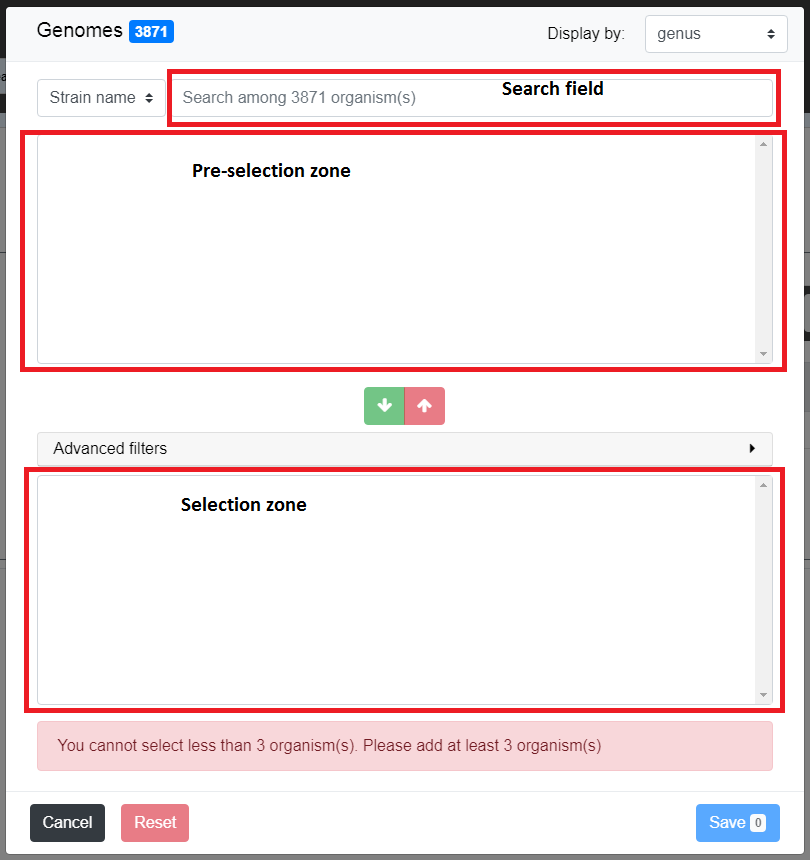
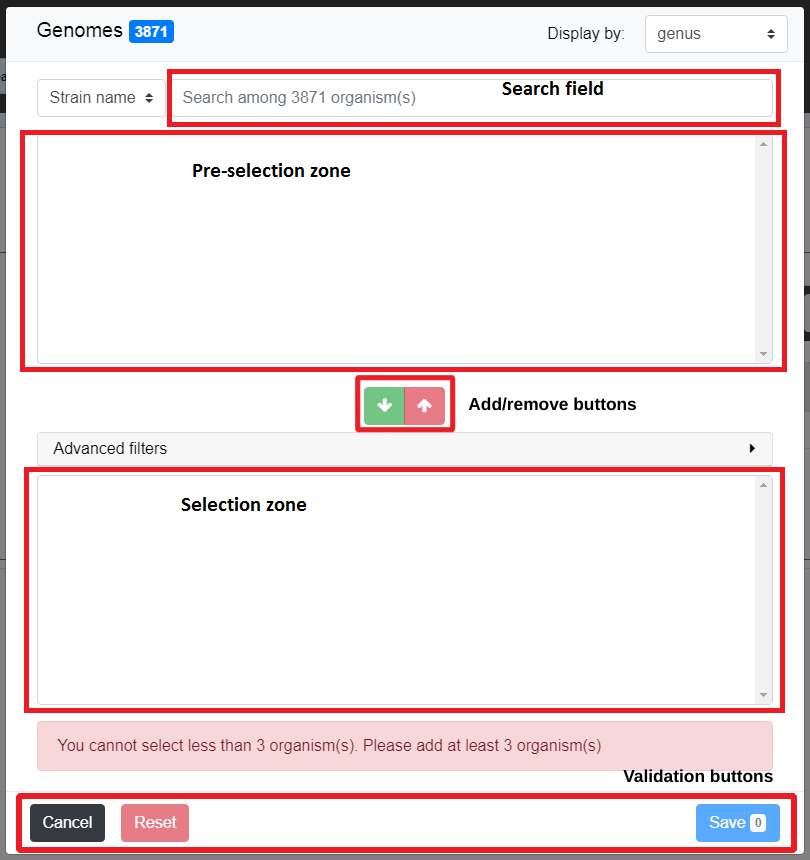
Many edits (including moving descriptions of buttons up).

Changed region(s): [[0.0, 0.8767, 0.9877, 0.9977], [0.4321, 0.4233, 0.8025, 0.514]]

diff --git a/docs/content/overview/organismselection.rst b/docs/content/overview/organismselection.rst
@@ -85,44 +85,72 @@ The selector opens as shown below:
 
 .. image:: img/selector_partname.png
 
-You can now select your organism(s) by writing the organism name in the **search field**.
-Select them by clicking on their name in the **pre-selection zone** (first selection zone) and
-use the green arrow to transfer them in the **selection zone** (second selection zone).
-You may add more genome to the **selection zone** using the same mechanism, or remove some of them using the red button.
-When satisfied by the organism list in the **selection zone**, you can use them for your analysis by clicking on "Save".
+The window is divided in 5 parts:
+
+  - the **Search Field** is used to create filters on the list of objects from the data source
+  - the **Pre-selection Zone** is used to select objects among the objects that match the filters
+  - the **Selection Zone** shows the list of currently selected objects
+  - the **Add/Remove buttons** allows to transfer objects between the Pre-selection Zone and the Selection Zone
+
+The general usage of the selectors is as follows.
+You can use the **Search Field** to filters the list of all objects from the
+data source (see :ref:`search-field` for detailled explanation on this).
+The **Pre-selection Zone** will display the objects that match the filters.
+You can then select objects from this list and add them to the **Selection Zone** with the green arrow.
+
+If you want to remove objects from the **Selection Zone**, select them and use the red arrow.
+See :ref:`selection-zone` to learn more about the **Selection Zone** (including the use of filters in it).
+
+You can use the **Pre-selection Zone** several times with different filters.
+This allows to create arbitrarily complicated selections.
+
+When satisfied with the list in the **Selection Zone**, click on **Save**.
+The selection window will close and you will return to the page you are interested in
+for further analysis.
+
+The **Reset** button will revert both zones (**Selection Zone** and **Pre-selection Zone**)
+to their initial value (*i.e.* when the page was opened).
+The selection window stays open so you can restart the selection.
+
+The **Cancel** button button cancels all the changes done in the current selector
+(*i.e* the list of selected organisms is not changed) and closes the selection window.
 
 Step by Step use
-=================
+================
 
-Once the selector is open, you have to find the organism(s) you are interested in by using the **search field**
+Once the selector is open, you have to find the object(s) you are interested in by using the **Search Field**
 
-Pre-selection
--------------
+.. _preselection-zone:
 
-The **pre-selection zone** allows you to see all organisms accessible of the platform and make filter on them before selecting them.
+Pre-selection Zone
+------------------
+
+The **Pre-selection Zone** allows you to see all objects and filters them before selecting.
+
+.. _search-field:
 
 How the **search field** works ?
 ~~~~~~~~~~~~~~~~~~~~~~~~~~~~~~~~
 
-Writing in the **search field**, will bring suggestions to you.
+Writing in the **Search Field**, will bring suggestions to you.
 These suggestions can be changed by using the drop down menu on the left:
 
-* - *Strain name*/*Sequence* filters by name of organism/sequence
+* *Strain name*/*Sequence* filters by name of organism/sequence
 
 .. image:: img/selector_search.PNG
 
-* - *Taxonomy* filters by taxonomic information
+* *Taxonomy* filters by taxonomic information
 
 .. image:: img/selector_search2.PNG
 
-* - *MICGC* allows to select an entire :ref:`MICGC <micgc>` (organism group)
+* *MICGC* allows to select an entire :ref:`MICGC <micgc>` (organism group)
 
 
 What are the filters ?
 ~~~~~~~~~~~~~~~~~~~~~~
 
 Using one of the suggestion will allow you to make filter, which is useful to pre-select the organisms you will want to work on.
-Making a filter will put all the organisms following it in the **pre-selection zone**.
+Making a filter will put all the organisms following it in the **Pre-selection Zone**.
 You can add several filters to improve the accuracy of your pre-selection.
 
 .. image:: img/selector_filter.PNG
@@ -136,7 +164,7 @@ We add to the "Acinetobacter" filter an other filter call "bauma" in order to se
 What is the display menu?
 ~~~~~~~~~~~~~~~~~~~~~~~~~
 
-You can change the display output of the **pre-selection zone** (and **selection zone**) by changing the value of the display drop down menu (top right of the screen).
+You can change the display output of the **pre-selection zone** (and **Selection Zone**) by changing the value of the display drop down menu (top right of the screen).
 
 .. image:: img/selector_display.PNG
 
@@ -150,46 +178,31 @@ The display by "genus" with "Acinetobacter" filter active will show all the 32 o
 How to select my organisms of interest?
 ~~~~~~~~~~~~~~~~~~~~~~~~~~~~~~~~~~~~~~~
 
-To select you organisms, move the mouse with the button down on the wanted organisms in the **pre-selection zone** (shift + click works too).
-Then press the green button to put them in the **selection zone**.
+To select you organisms, move the mouse with the button down on the wanted organisms in the **Pre-selection Zone** (shift + click works too).
+Then press the green button to put them in the **Selection Zone**.
 
 
 .. tip::
 	* You can make your own filter by pressing *enter* at any time in the **search field**.
-	* You can select the group of organism by double clicking on the bold tittle inside the **pre-selection zone**.
+	* You can select the group of organism by double clicking on the bold tittle inside the **Pre-selection Zone**.
 
-Selection zone
+.. _selection-zone:
+
+Selection Zone
 --------------
 
 What is it for?
 ~~~~~~~~~~~~~~~
 
-The **selection zone** is there to allow you to see all the selected organisms for the analysis.
-You can remove some of them by moving the mouse with the button down and pressing the red button to remove them from the **selection zone**.
-If the active filter allow them, they will appear in the **pre-selection zone**.
+The **Selection Zone** is there to allow you to see all the selected organisms for the analysis.
+You can remove some of them by moving the mouse with the button down and pressing the red button to remove them from the **Selection Zone**.
+If the active filter allow them, they will appear in the **Pre-selection Zone**.
 
 When you are satisfied with your selection, press the save button to continue the analysis.
 
 What is "Advanced filter"?
 ~~~~~~~~~~~~~~~~~~~~~~~~~~
 
-This part allow you to make filter in the **selection zone** to remove more efficiently organisms.
+This part allow you to make filter in the **Selection Zone** to remove more efficiently organisms.
 It works exactly the same as the first **search field**.
 
-Other features
---------------
-
-**Cancel** button
-~~~~~~~~~~~~~~~~~
-
-This button cancels all the changes done in the current selector (*i.e* the list of selected organisms is not changed).
-
-**Reset** button
-~~~~~~~~~~~~~~~~
-
-The reset button will change both zones (**selection zone** and **pre-selection zone**) to their initial value (*i.e.* when the page was opened).
-
-**Save** button
-~~~~~~~~~~~~~~~
-
-This button allows the save the list of organisms/sequences for further analysis.
